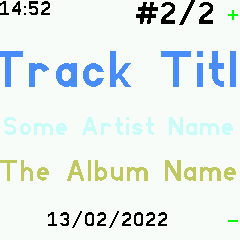
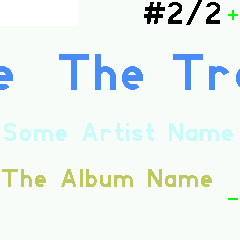
gbmusic: remove date+time

diff --git a/apps/gbmusic/app.js b/apps/gbmusic/app.js
@@ -10,15 +10,15 @@ const BANGLE2 = process.env.HWVERSION===2;
 
 /**
  * @param {string} text
- * @return {number} Maximum font size to make text fit on screen
+ * @param {number} w Width to fit text in
+ * @return {number} Maximum font size to make text fit
  */
-function fitText(text) {
+function fitText(text, w) {
   if (!text.length) {
     return Infinity;
   }
   // make a guess, then shrink/grow until it fits
-  const w = Bangle.appRect.w,
-    test = (s) => g.setFont("Vector", s).stringWidth(text);
+  const test = (s) => g.setFont("Vector", s).stringWidth(text);
   let best = Math.floor(100*w/test(100));
   if (test(best)===w) { // good guess!
     return best;
@@ -106,7 +106,7 @@ function rTitle(l) {
     rScroller(l); // already scrolling
     return;
   }
-  let size = fitText(l.label);
+  let size = fitText(l.label, l.w);
   if (size<l.h/2) {
     // the title is too long: start the scroller
     scrollStart();
@@ -119,7 +119,7 @@ function rTitle(l) {
  * @param l
  */
 function rInfo(l) {
-  let size = fitText(l.label);
+  let size = fitText(l.label, l.w);
   if (size>l.h) {
     size = l.h;
   }
@@ -182,21 +182,17 @@ function makeUI() {
     type: "v", c: [
       {
         type: "h", fillx: 1, c: [
-          {id: "time", type: "txt", label: "88:88", valign: -1, halign: -1, font: "8%", bgCol: g.theme.bg},
           {fillx: 1},
-          {id: "num", type: "txt", label: "88:88", valign: -1, halign: 1, font: "12%", bgCol: g.theme.bg},
-          BANGLE2 ? {} : {id: "up", type: "txt", label: " +", font: "6x8:2"},
+          {id: "num", type: "txt", label: "", valign: -1, halign: -1, font: "12%", bgCol: g.theme.bg},
+          BANGLE2 ? {} : {id: "up", type: "txt", label: " +", halign: 1, font: "6x8:2"},
         ],
       },
       {id: "title", type: "custom", label: "", fillx: 1, filly: 2, offset: null, font: "Vector:20%", render: rTitle, bgCol: g.theme.bg},
       {id: "artist", type: "custom", label: "", fillx: 1, filly: 1, size: 30, render: rInfo, bgCol: g.theme.bg},
-      {id: "album", type: "custom", label: "", fillx: 1, filly: 1, size: 20, render: rInfo, bgCol: g.theme.bg},
-      {height: 10},
       {
         type: "h", c: [
-          {width: 3},
-          {id: "date", type: "txt", halign: 0, valign: 1, label: "", font: "8%", fillx: 1, bgCol: g.theme.bg},
-          BANGLE2 ? {width: 3} : {id: "down", type: "txt", label: " -", font: "6x8:2"},
+          {id: "album", type: "custom", label: "", fillx: 1, filly: 1, size: 20, render: rInfo, bgCol: g.theme.bg},
+          BANGLE2 ? {} : {id: "down", type: "txt", label: " -", font: "6x8:2"},
         ],
       },
       {height: 10},
@@ -208,20 +204,6 @@ function makeUI() {
 ///////////////////////
 // Self-repeating timeouts
 ///////////////////////
-
-// Clock
-let tock = -1;
-function tick() {
-  if (!BANGLE2 && !Bangle.isLCDOn()) {
-    return;
-  }
-  const now = new Date();
-  if (now.getHours()*60+now.getMinutes()!==tock) {
-    drawDateTime();
-    tock = now.getHours()*60+now.getMinutes();
-  }
-  setTimeout(tick, 1000); // we only show minute precision anyway
-}
 
 // Fade out while paused and auto closing
 let fade = null;
@@ -269,28 +251,6 @@ function scrollStop() {
 ////////////////////
 // Drawing functions
 ////////////////////
-/**
- * Draw date and time
- */
-function drawDateTime() {
-  const now = new Date();
-  const l = require("locale");
-  const is12 = (require("Storage").readJSON("setting.json", 1) || {})["12hour"];
-  if (is12) {
-    const d12 = new Date(now.getTime());
-    const hour = d12.getHours();
-    if (hour===0) {
-      d12.setHours(12);
-    } else if (hour>12) {
-      d12.setHours(hour-12);
-    }
-    layout.time.label = l.time(d12, true)+l.meridian(now);
-  } else {
-    layout.time.label = l.time(now, true);
-  }
-  layout.date.label = require("locale").date(now, true);
-  layout.render();
-}
 
 function drawControls() {
   if (BANGLE2) return;
@@ -331,6 +291,7 @@ function info(info) {
   layout.album.col = infoColor("album");
   layout.artist.col = infoColor("artist");
   layout.num.label = formatNum(info);
+  layout.update();
   layout.render();
   rTitle(layout.title); // force redraw of title, or scroller might break
   // reset auto exit interval
@@ -557,7 +518,6 @@ function startWatches() {
 function start() {
   makeUI();
   startWatches();
-  tick();
   startEmulator();
 }
 

diff --git a/apps/gbmusic/README.md b/apps/gbmusic/README.md
@@ -15,7 +15,6 @@ Download the [latest Gadgetbridge for Android here](https://f-droid.org/packages
 * Dynamic colors based on Track/Artist/Album name
 * Scrolling display for long titles
 * Automatic start when music plays
-* Time and date display
 
 ## Settings
 
